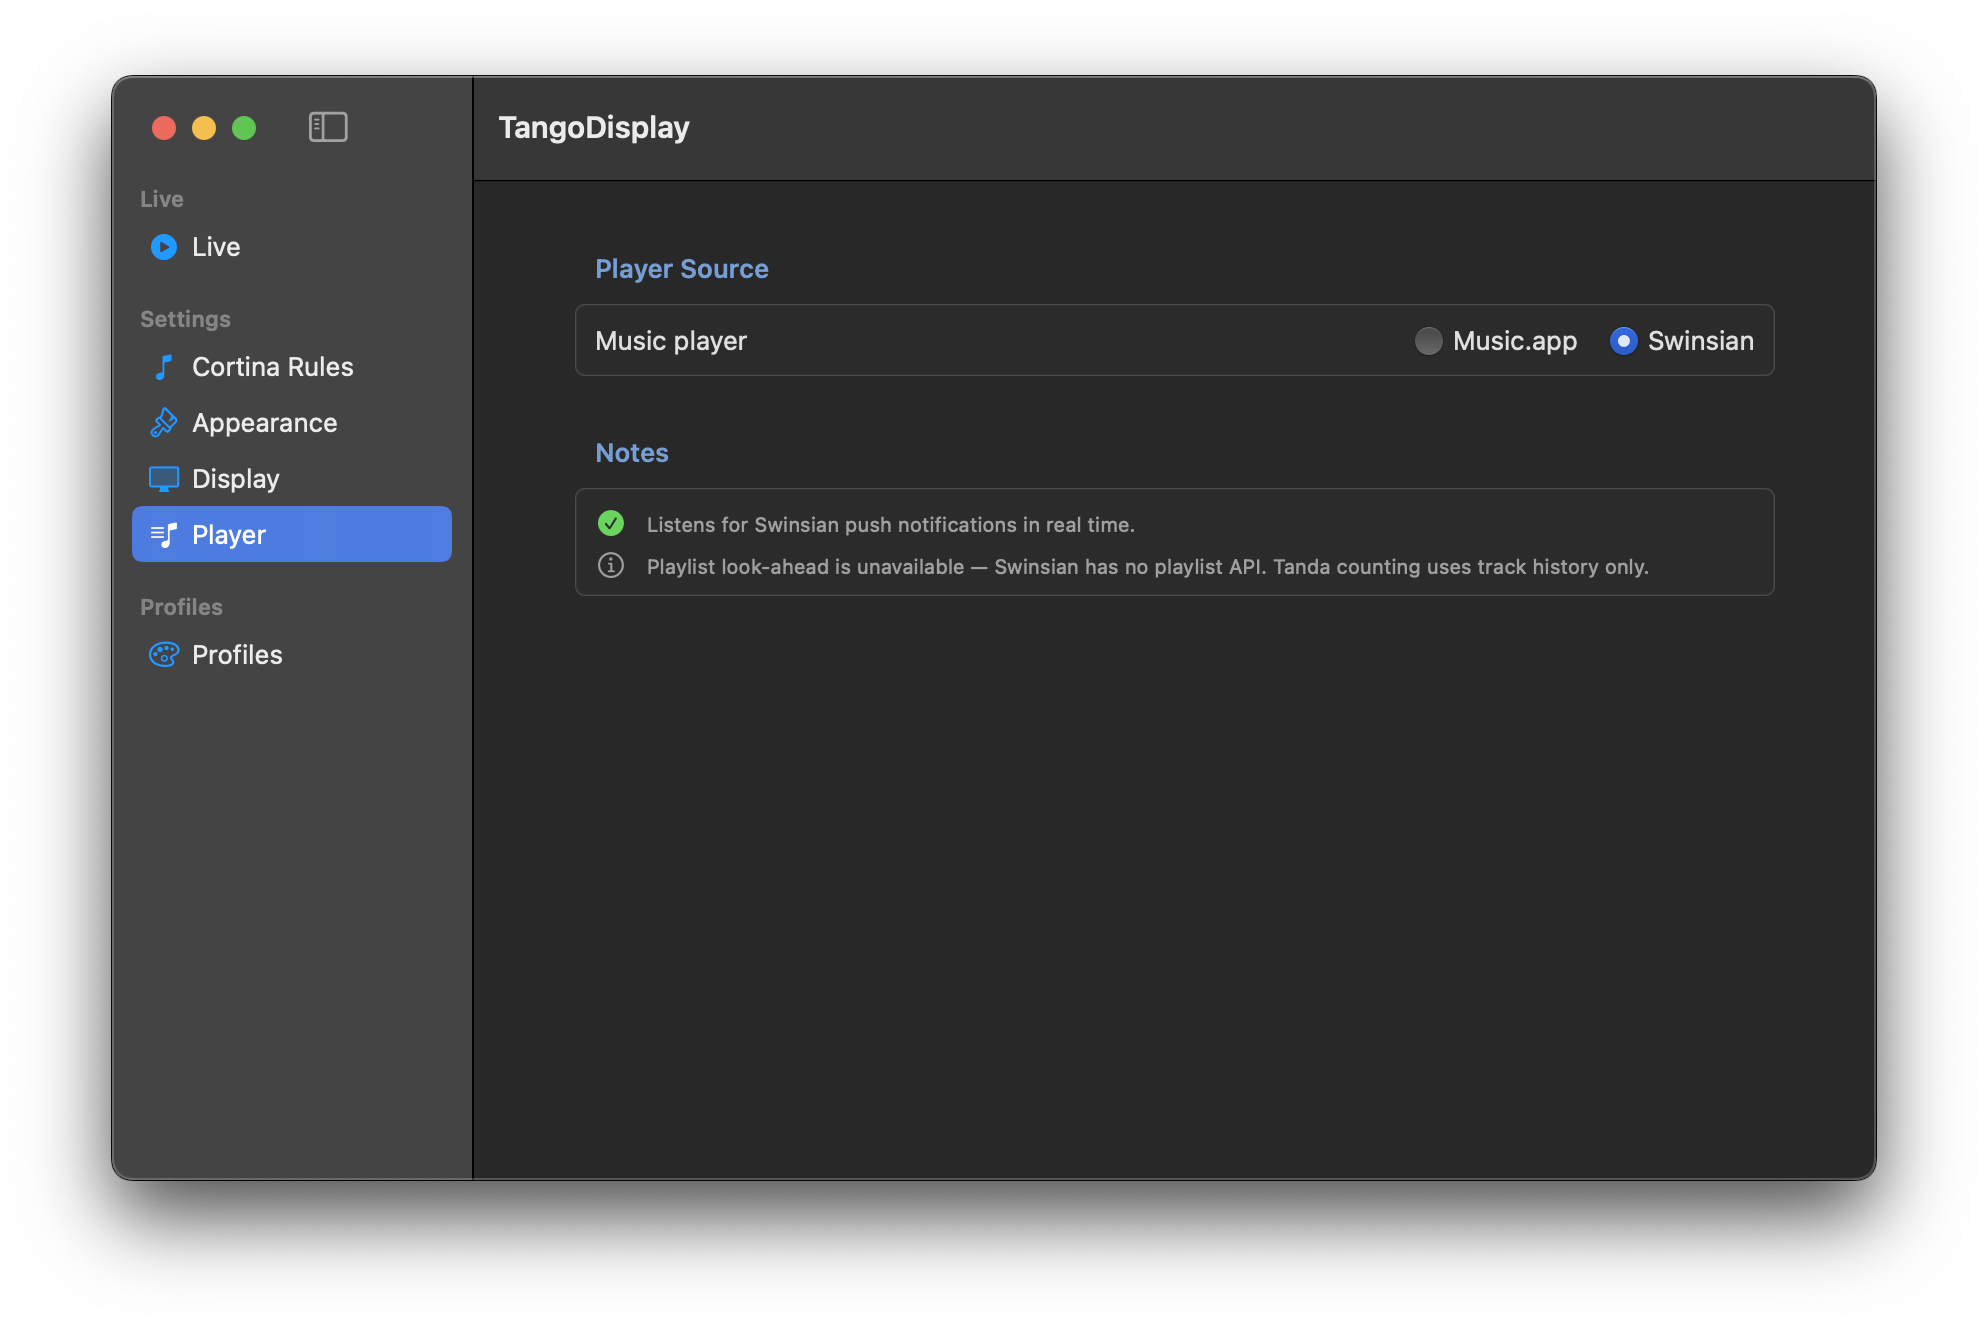
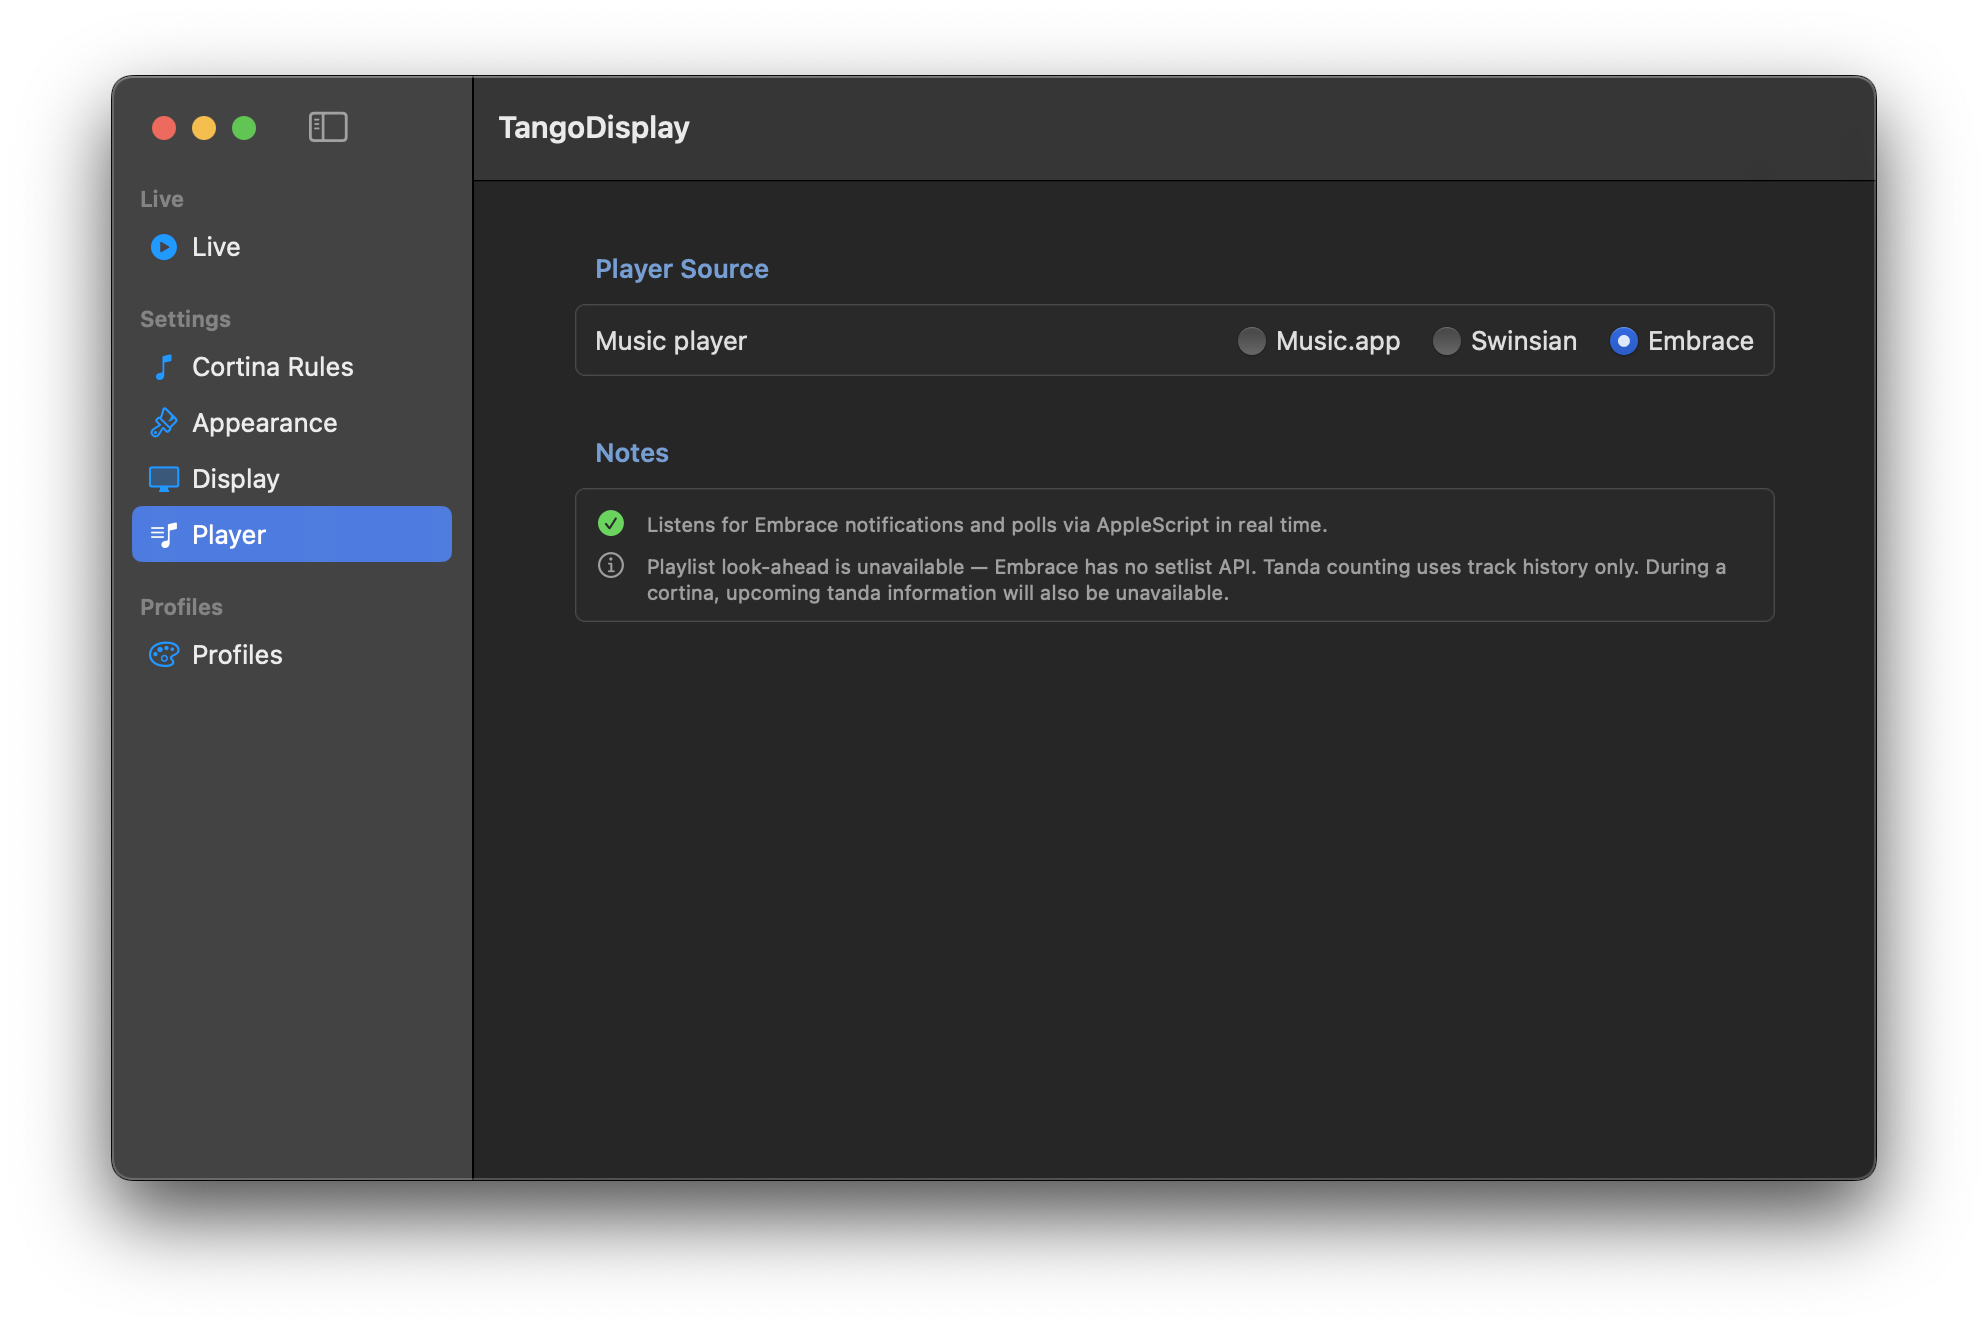
Bump version to 1.2.0; add Embrace player source support

Changed region(s): [[0.3119, 0.3705, 0.8732, 0.4631], [0.6237, 0.247, 0.7797, 0.2779], [0.8421, 0.247, 0.8732, 0.2779]]

diff --git a/Sources/TangoDisplay/Services/EmbracMonitor.swift b/Sources/TangoDisplay/Services/EmbracMonitor.swift
@@ -1,0 +1,226 @@
+import Foundation
+import TangoDisplayCore
+
+/// Monitors Embrace via a hybrid push+poll strategy.
+///
+/// Embrace's distributed notification `com.iccir.Embrace.playerUpdate` fires on
+/// every track change and state change, so we use it to trigger an immediate poll
+/// rather than waiting for the 2-second timer. The timer runs as a fallback for
+/// initial state on app start, recovery after Embrace quits, and watchdog backoff.
+///
+/// AppleScript is executed via /usr/bin/osascript (Process) rather than
+/// NSAppleScript to avoid per-call compilation overhead; TCC attributes the
+/// subprocess's Apple Events to the parent app (TangoDisplay).
+///
+/// Playlist enumeration is not supported — triggerPlaylistFetch() is a no-op and
+/// onPlaylistUpdate is never called. AppState's history-based tanda counting
+/// fallback handles this automatically (same behaviour as SwinsianMonitor).
+final class EmbracMonitor {
+
+    private static let updateNotification = "com.iccir.Embrace.playerUpdate"
+
+    private let scriptQueue = DispatchQueue(label: "com.tangodisplay.embrace", qos: .utility)
+
+    private var timer: DispatchSourceTimer?
+    private var notificationObserver: AnyObject?
+
+    private var consecutiveFailures = 0
+    private var currentInterval: TimeInterval = 2.0
+    private let normalInterval: TimeInterval = 2.0
+    private let maxInterval: TimeInterval = 30.0
+    private let failuresBeforeWatchdog = 3
+
+    // MARK: - MusicPlayerSource callbacks (all delivered on main queue)
+
+    var onTrackUpdate: ((Track?, PlayerState) -> Void)?
+    var onPlaylistUpdate: ((tracks: [Track], currentIndex: Int)?) -> Void = { _ in }
+    var onWatchdogChanged: ((Bool) -> Void)?
+
+    // MARK: - AppleScript source
+
+    /// Returns five newline-delimited fields: state, title, artist, genre, id.
+    /// Uses current index + track N lookup (Embrace uses 1-based indexing; 0 = no track loaded).
+    /// Uses `player state as string` because Embrace's dictionary does not export `paused`
+    /// as a named constant — comparing `player state is paused` throws -2753 at runtime.
+    private static let trackScript = """
+        tell application "Embrace"
+            try
+                set idx to current index
+                if idx is 0 then
+                    return "stopped" & linefeed & "" & linefeed & "" & linefeed & "" & linefeed & ""
+                end if
+                set t to track idx
+                set theTitle to title of t
+                set theArtist to artist of t
+                if theArtist is missing value then set theArtist to ""
+                set theGenre to genre of t
+                if theGenre is missing value then set theGenre to ""
+                set theID to id of t
+                set stateStr to player state as string
+                if stateStr is "stopped" then
+                    return "stopped" & linefeed & "" & linefeed & "" & linefeed & "" & linefeed & ""
+                end if
+                return stateStr & linefeed & theTitle & linefeed & theArtist & linefeed & theGenre & linefeed & theID
+            on error
+                return "stopped" & linefeed & "" & linefeed & "" & linefeed & "" & linefeed & ""
+            end try
+        end tell
+        """
+
+    // MARK: - Lifecycle
+
+    func start() {
+        onWatchdogChanged?(false)
+
+        let observer = DistributedNotificationCenter.default().addObserver(
+            forName: NSNotification.Name(Self.updateNotification),
+            object: nil,
+            queue: nil   // delivered on whatever thread DNC chooses; we dispatch to scriptQueue
+        ) { [weak self] _ in
+            self?.notificationTriggeredPoll()
+        }
+        notificationObserver = observer
+
+        schedulePoll(after: 0)
+    }
+
+    func stop() {
+        timer?.cancel()
+        timer = nil
+        if let observer = notificationObserver {
+            DistributedNotificationCenter.default().removeObserver(observer)
+            notificationObserver = nil
+        }
+    }
+
+    // MARK: - Scheduling
+
+    private func notificationTriggeredPoll() {
+        scriptQueue.async { [weak self] in
+            guard let self else { return }
+            self.timer?.cancel()
+            self.timer = nil
+            self.doPoll()
+        }
+    }
+
+    private func schedulePoll(after delay: TimeInterval) {
+        let t = DispatchSource.makeTimerSource(queue: scriptQueue)
+        t.schedule(deadline: .now() + delay)
+        t.setEventHandler { [weak self] in self?.doPoll() }
+        t.resume()
+        timer = t
+    }
+
+    // MARK: - Polling
+
+    private func doPoll() {
+        // Must be called on scriptQueue
+        if let output = runScript() {
+            handleSuccess()
+            let result = parseOutput(output)
+            DispatchQueue.main.async { [weak self] in
+                self?.onTrackUpdate?(result.0, result.1)
+            }
+        } else {
+            handleFailure()
+            DispatchQueue.main.async { [weak self] in
+                self?.onTrackUpdate?(nil, .stopped)
+            }
+        }
+        schedulePoll(after: currentInterval)
+    }
+
+    // MARK: - Script execution
+
+    /// Runs the AppleScript via /usr/bin/osascript and returns stdout, or nil on failure.
+    /// Must be called on scriptQueue (it blocks until the subprocess exits).
+    private func runScript() -> String? {
+        let proc = Process()
+        proc.executableURL = URL(fileURLWithPath: "/usr/bin/osascript")
+        proc.arguments = ["-e", Self.trackScript]
+
+        let stdoutPipe = Pipe()
+        let stderrPipe = Pipe()
+        proc.standardOutput = stdoutPipe
+        proc.standardError  = stderrPipe
+
+        do {
+            try proc.run()
+        } catch {
+            NSLog("TangoDisplay: Embrace osascript launch failed: %@", error.localizedDescription)
+            return nil
+        }
+
+        proc.waitUntilExit()
+
+        guard proc.terminationStatus == 0 else {
+            let errData = stderrPipe.fileHandleForReading.readDataToEndOfFile()
+            let errMsg  = String(data: errData, encoding: .utf8) ?? ""
+            NSLog("TangoDisplay: Embrace osascript error (%d): %@",
+                  proc.terminationStatus, errMsg.trimmingCharacters(in: .whitespacesAndNewlines))
+            return nil
+        }
+
+        let data = stdoutPipe.fileHandleForReading.readDataToEndOfFile()
+        return String(data: data, encoding: .utf8)
+    }
+
+    // MARK: - Output parsing
+
+    /// Parses five newline-delimited fields: state, title, artist, genre, id.
+    private func parseOutput(_ output: String) -> (Track?, PlayerState) {
+        // osascript appends a trailing newline; split keeping empty strings to preserve indices
+        let lines = output.components(separatedBy: "\n")
+
+        let stateRaw = lines.count > 0 ? lines[0].trimmingCharacters(in: .whitespaces) : "stopped"
+        let state    = PlayerState(rawValue: stateRaw) ?? .stopped
+
+        guard state != .stopped else { return (nil, .stopped) }
+
+        let title  = lines.count > 1 ? lines[1] : ""
+        let artist = lines.count > 2 ? lines[2] : ""
+        let genre  = lines.count > 3 ? lines[3] : ""
+        let pid    = lines.count > 4 ? lines[4].trimmingCharacters(in: .whitespaces) : ""
+
+        guard !pid.isEmpty || !title.isEmpty else { return (nil, .stopped) }
+
+        return (Track(title: title, artist: artist, genre: genre, persistentID: pid), state)
+    }
+
+    // MARK: - Watchdog
+
+    private func handleSuccess() {
+        let wasWatchdog = consecutiveFailures >= failuresBeforeWatchdog
+        consecutiveFailures = 0
+        currentInterval = normalInterval
+        if wasWatchdog {
+            DispatchQueue.main.async { [weak self] in self?.onWatchdogChanged?(false) }
+        }
+    }
+
+    private func handleFailure() {
+        consecutiveFailures += 1
+        if consecutiveFailures == failuresBeforeWatchdog {
+            DispatchQueue.main.async { [weak self] in self?.onWatchdogChanged?(true) }
+        }
+        if consecutiveFailures >= failuresBeforeWatchdog {
+            currentInterval = min(currentInterval * 2, maxInterval)
+        }
+    }
+}
+
+// MARK: - MusicPlayerSource conformance
+
+extension EmbracMonitor: MusicPlayerSource {
+    func pollNow() {
+        scriptQueue.async { [weak self] in
+            guard let self else { return }
+            self.timer?.cancel()
+            self.timer = nil
+            self.doPoll()
+        }
+    }
+
+    func triggerPlaylistFetch() {}   // no Embrace setlist API
+}

diff --git a/Sources/TangoDisplay/Views/Control/PlayerSettingsView.swift b/Sources/TangoDisplay/Views/Control/PlayerSettingsView.swift
@@ -61,6 +61,26 @@ struct PlayerSettingsView: View {
                         .foregroundColor(.secondary)
                 }
             }
+
+        case .embrace:
+            VStack(alignment: .leading, spacing: 8) {
+                Label {
+                    Text("Listens for Embrace notifications and polls via AppleScript in real time.")
+                        .font(.caption)
+                        .foregroundColor(.secondary)
+                } icon: {
+                    Image(systemName: "checkmark.circle.fill")
+                        .foregroundColor(.green)
+                }
+                Label {
+                    Text("Playlist look-ahead is unavailable — Embrace has no setlist API. Tanda counting uses track history only. During a cortina, upcoming tanda information will also be unavailable.")
+                        .font(.caption)
+                        .foregroundColor(.secondary)
+                } icon: {
+                    Image(systemName: "info.circle")
+                        .foregroundColor(.secondary)
+                }
+            }
         }
     }
 }

diff --git a/Sources/TangoDisplay/Services/MusicPlayerSource.swift b/Sources/TangoDisplay/Services/MusicPlayerSource.swift
@@ -6,6 +6,7 @@ import TangoDisplayCore
 enum MusicPlayerChoice: String, CaseIterable, Identifiable {
     case musicApp = "musicApp"
     case swinsian = "swinsian"
+    case embrace  = "embrace"
 
     var id: String { rawValue }
 
@@ -13,6 +14,7 @@ enum MusicPlayerChoice: String, CaseIterable, Identifiable {
         switch self {
         case .musicApp: return "Music.app"
         case .swinsian: return "Swinsian"
+        case .embrace:  return "Embrace"
         }
     }
 }

diff --git a/Sources/TangoDisplay/State/AppState.swift b/Sources/TangoDisplay/State/AppState.swift
@@ -73,6 +73,7 @@ final class AppState: ObservableObject {
         switch choice {
         case .musicApp: return MusicPoller()
         case .swinsian: return SwinsianMonitor()
+        case .embrace:  return EmbracMonitor()
         }
     }
 

diff --git a/README.md b/README.md
@@ -19,7 +19,7 @@ A native macOS menu-bar app that shows a clean, fullscreen dancer display on an 
 - **Mirror mode** — live preview of the presentation window in the control window
 - **Display labels** — customisable "CORTINA", "COMING UP", and idle message text
 - **Idle message** — optional text shown when nothing is playing
-- **Player Source** — choose Music.app (default, full playlist lookahead and tanda counting) or Swinsian (real-time push notifications; playlist lookahead and "Coming Up" during cortinas are unavailable)
+- **Player Source** — choose Music.app (default, full playlist lookahead and tanda counting), Swinsian, or Embrace (both use real-time notifications; playlist lookahead and "Coming Up" during cortinas are unavailable — tanda counting falls back to track history)
 
 ---
 
@@ -30,6 +30,7 @@ A native macOS menu-bar app that shows a clean, fullscreen dancer display on an 
 | macOS | 13 Ventura or later |
 | Music.app | Required when using Music.app as the player source (default). Must be running and playing from a playlist. |
 | Swinsian | Required only if selecting Swinsian as the player source in Settings › Player. |
+| Embrace | Required only if selecting Embrace as the player source in Settings › Player. |
 | Xcode Command Line Tools | `xcode-select --install` — no full Xcode needed |
 
 ---
@@ -39,7 +40,7 @@ A native macOS menu-bar app that shows a clean, fullscreen dancer display on an 
 ### Option A — Download pre-built app (easiest)
 
 1. Go to the [Releases](https://github.com/richardsladetdj-creator/TangoDisplay/releases) page
-2. Download `TangoDisplay-v1.1.0.zip`
+2. Download `TangoDisplay-v1.2.0.zip`
 3. Unzip and drag `TangoDisplay.app` to your `/Applications` folder
 4. **Right-click › Open** on first launch (required because the app is ad-hoc signed, not notarised)
 5. Grant the permissions macOS requests (see [Permissions](#permissions) below)
@@ -125,6 +126,9 @@ Key design decisions:
 ---
 
 ## Changelog
+
+### v1.2.0
+- **New:** Embrace is now supported as a player source. Select Music.app, Swinsian, or Embrace in **Settings › Player**. Embrace uses a hybrid push/poll strategy — real-time notifications plus AppleScript polling for reliability. Note: playlist lookahead and the "Coming Up" preview during cortinas are unavailable with Embrace — tanda counting falls back to track history.
 
 ### v1.1.0
 - **New:** Swinsian is now supported as an alternative player source. Select Music.app or Swinsian in **Settings › Player**. Swinsian uses real-time push notifications instead of polling. Note: playlist lookahead and the "Coming Up" next-tanda preview during cortinas are unavailable with Swinsian — tanda counting falls back to track history.